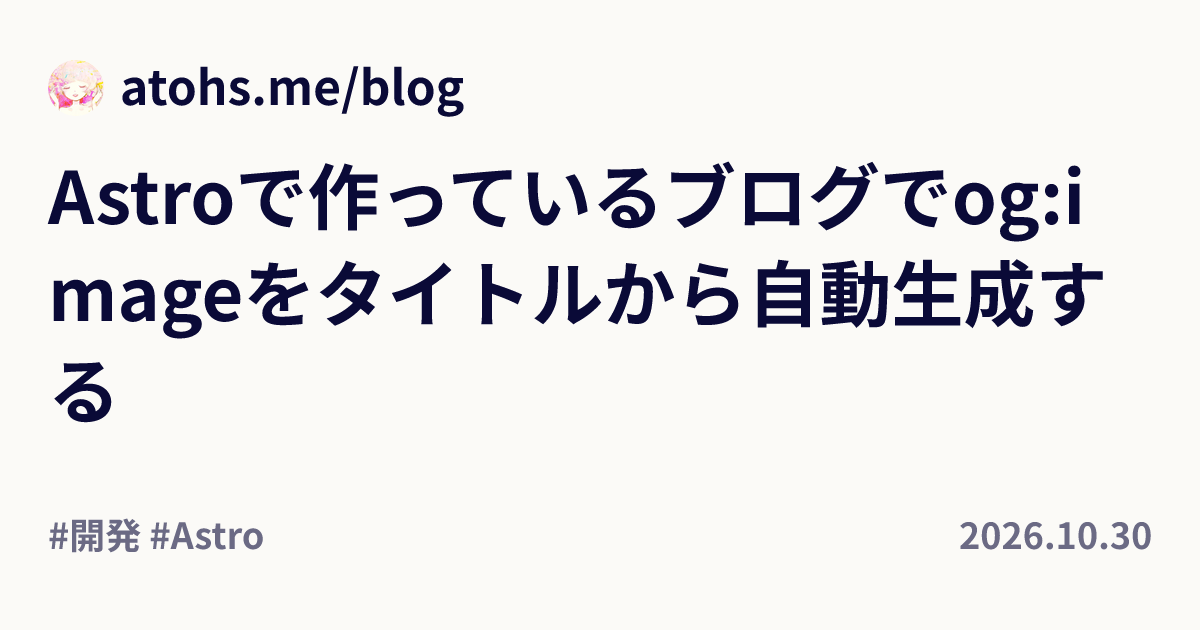
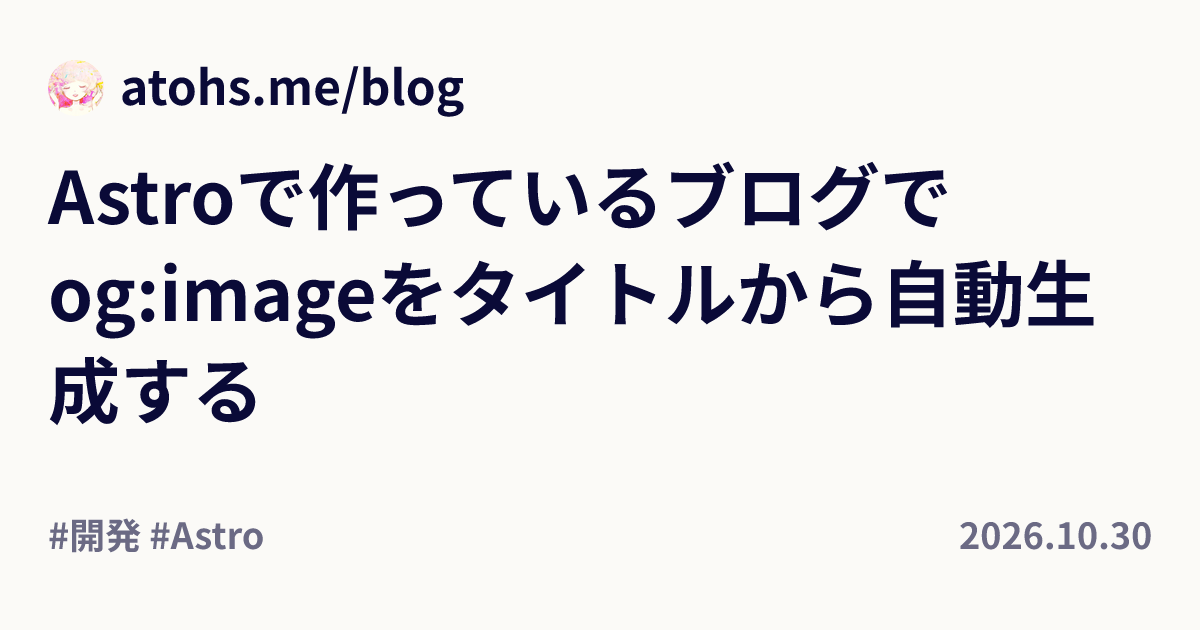
OGP記事を公開用に整え、ship時のCloudflareアカウント指定を組み込む。
タイトル折り返しの改善、見出し余白の調整、記事本文の校正とog.png更新を含む。

Changed region(s): [[0.0308, 0.2714, 0.925, 0.6937]]

diff --git a/src/lib/og-image.ts b/src/lib/og-image.ts
@@ -22,6 +22,9 @@ const BRAND_ICON_GAP = 16;
 /** Satori の行ボックス余白でアイコンが上に見えるのを補正 */
 const BRAND_ICON_NUDGE_Y = 7;
 const LINE_HEIGHT = 1.35;
+/** タイトル折り返し: 先頭 `[A-Za-z0-9]` から `[A-Za-z0-9_:/.-]*` までを1トークン（`og:image` などを途中で切らない） */
+const TITLE_ASCII_WORD_HEAD = /[A-Za-z0-9]/;
+const TITLE_ASCII_WORD_TAIL = /[A-Za-z0-9_:/.-]/;
 const FOOTER_FONT_SIZE = 36;
 const TEXT_COLOR = 'rgb(10, 10, 55)';
 /** 記事メタの `--color-text-muted`（light / contrast 100%）に近い */
@@ -62,25 +65,38 @@ function charWidth(ch: string, fontSize: number) {
   return fontSize;
 }
 
-/** `@` と直後の非空白を1トークンにし、行の途中で `@` だけ孤立しないようにする */
+/** `@` 句、`og:image` などの ASCII 語、それ以外は1文字（和字）単位 */
 function titleTokens(title: string): string[] {
   const tokens: string[] = [];
   const chars = [...title];
 
   for (let i = 0; i < chars.length; i++) {
     const ch = chars[i];
-    if (!isAtSign(ch)) {
-      tokens.push(ch);
+    if (isAtSign(ch)) {
+      let token = ch;
+      i++;
+      while (i < chars.length && chars[i] !== ' ' && chars[i] !== '\n' && chars[i] !== '\t') {
+        token += chars[i];
+        i++;
+      }
+      tokens.push(token);
+      i--;
       continue;
     }
 
-    let token = ch;
-    i++;
-    while (i < chars.length && chars[i] !== ' ' && chars[i] !== '\n' && chars[i] !== '\t') {
-      token += chars[i];
+    if (TITLE_ASCII_WORD_HEAD.test(ch)) {
+      let token = ch;
       i++;
+      while (i < chars.length && TITLE_ASCII_WORD_TAIL.test(chars[i])) {
+        token += chars[i];
+        i++;
+      }
+      tokens.push(token);
+      i--;
+      continue;
     }
-    tokens.push(token);
+
+    tokens.push(ch);
   }
 
   return tokens;
@@ -201,7 +217,7 @@ function wrapTitleLines(title: string, fontSize: number, contentWidth: number): 
 
   if (line.text) lines.push(line.text);
 
-  return lines;
+  return lines.length > 0 ? lines : [''];
 }
 
 function formatOgTags(tags: string[]): string {

diff --git a/src/styles/blog.css b/src/styles/blog.css
@@ -623,13 +623,13 @@ a.blog-tag:hover {
 
 .blog-body h2 {
   font-size: 1.5em;
-  margin-top: 60px;
+  margin-top: 40px;
   margin-bottom: 24px;
 }
 
 .blog-body h3 {
   font-size: 1.2em;
-  margin-top: 48px;
+  margin-top: 40px;
   margin-bottom: 24px;
 }
 

diff --git a/AGENTS.md b/AGENTS.md
@@ -16,7 +16,7 @@
 ## デプロイ（Cloudflare Workers）
 
 - 設定: ルートの `wrangler.jsonc`（静的アセットのみ、`dist/`）。`npm run build` で `dist/_redirects`（末尾スラッシュ **301**）も生成される
-- プレビュー: `npm run build` → `npm run deploy:cf`（`workers.dev`）。トークンは `CLOUDFLARE_API_TOKEN`（必須）、アカウントは `CLOUDFLARE_ACCOUNT_ID`（任意）
+- プレビュー: `npm run build` → `npm run deploy:cf`（`workers.dev`）。トークンは `CLOUDFLARE_API_TOKEN`（必須）。`CLOUDFLARE_ACCOUNT_ID` は `ship` / `deploy:cf` が `scripts/cloudflare-account-id.sh` で付与（環境変数で上書き可）
 - 本番リリース: **`npm run ship`** — commit 済みであること。1 回 `build` のあと `wrangler deploy` と `git push` を並列（`scripts/ship.sh`）
 - CI（`.github/workflows/ci.yml`）はビルドのみ。増分キャッシュキーは Pages 時代と同じ考え方（`node_modules/.astro` + `package-lock.json` / `astro.config.mjs` / `src/content/**`）。**CI の成功だけでは本番は更新されない。**
 

diff --git a/README.md b/README.md
@@ -65,7 +65,7 @@ draft: false
 
 ```bash
 export CLOUDFLARE_API_TOKEN='…'
-export CLOUDFLARE_ACCOUNT_ID='9e79ad62d9d02398901caa5d333e6bb7'  # 任意。wrangler がアカウントを解決できないとき用
+# CLOUDFLARE_ACCOUNT_ID は npm run ship / deploy:cf が scripts/cloudflare-account-id.sh で既定値を付与（上書き可）
 ```
 
 3. ビルドして Workers にアップロード（**git は触らない** — プレビュー用）:
@@ -85,6 +85,7 @@ npm run deploy:cf
 npm run ship
 ```
 
+- `ship.sh` はデプロイ前に `scripts/cloudflare-account-id.sh` で `CLOUDFLARE_ACCOUNT_ID` を付与（複数 Cloudflare アカウント環境向け。上書きする場合は実行前に export）
 - 未コミットの変更があると終了する（push 前に commit すること）
 - ビルド失敗時は deploy / push しない
 - force push はしない
